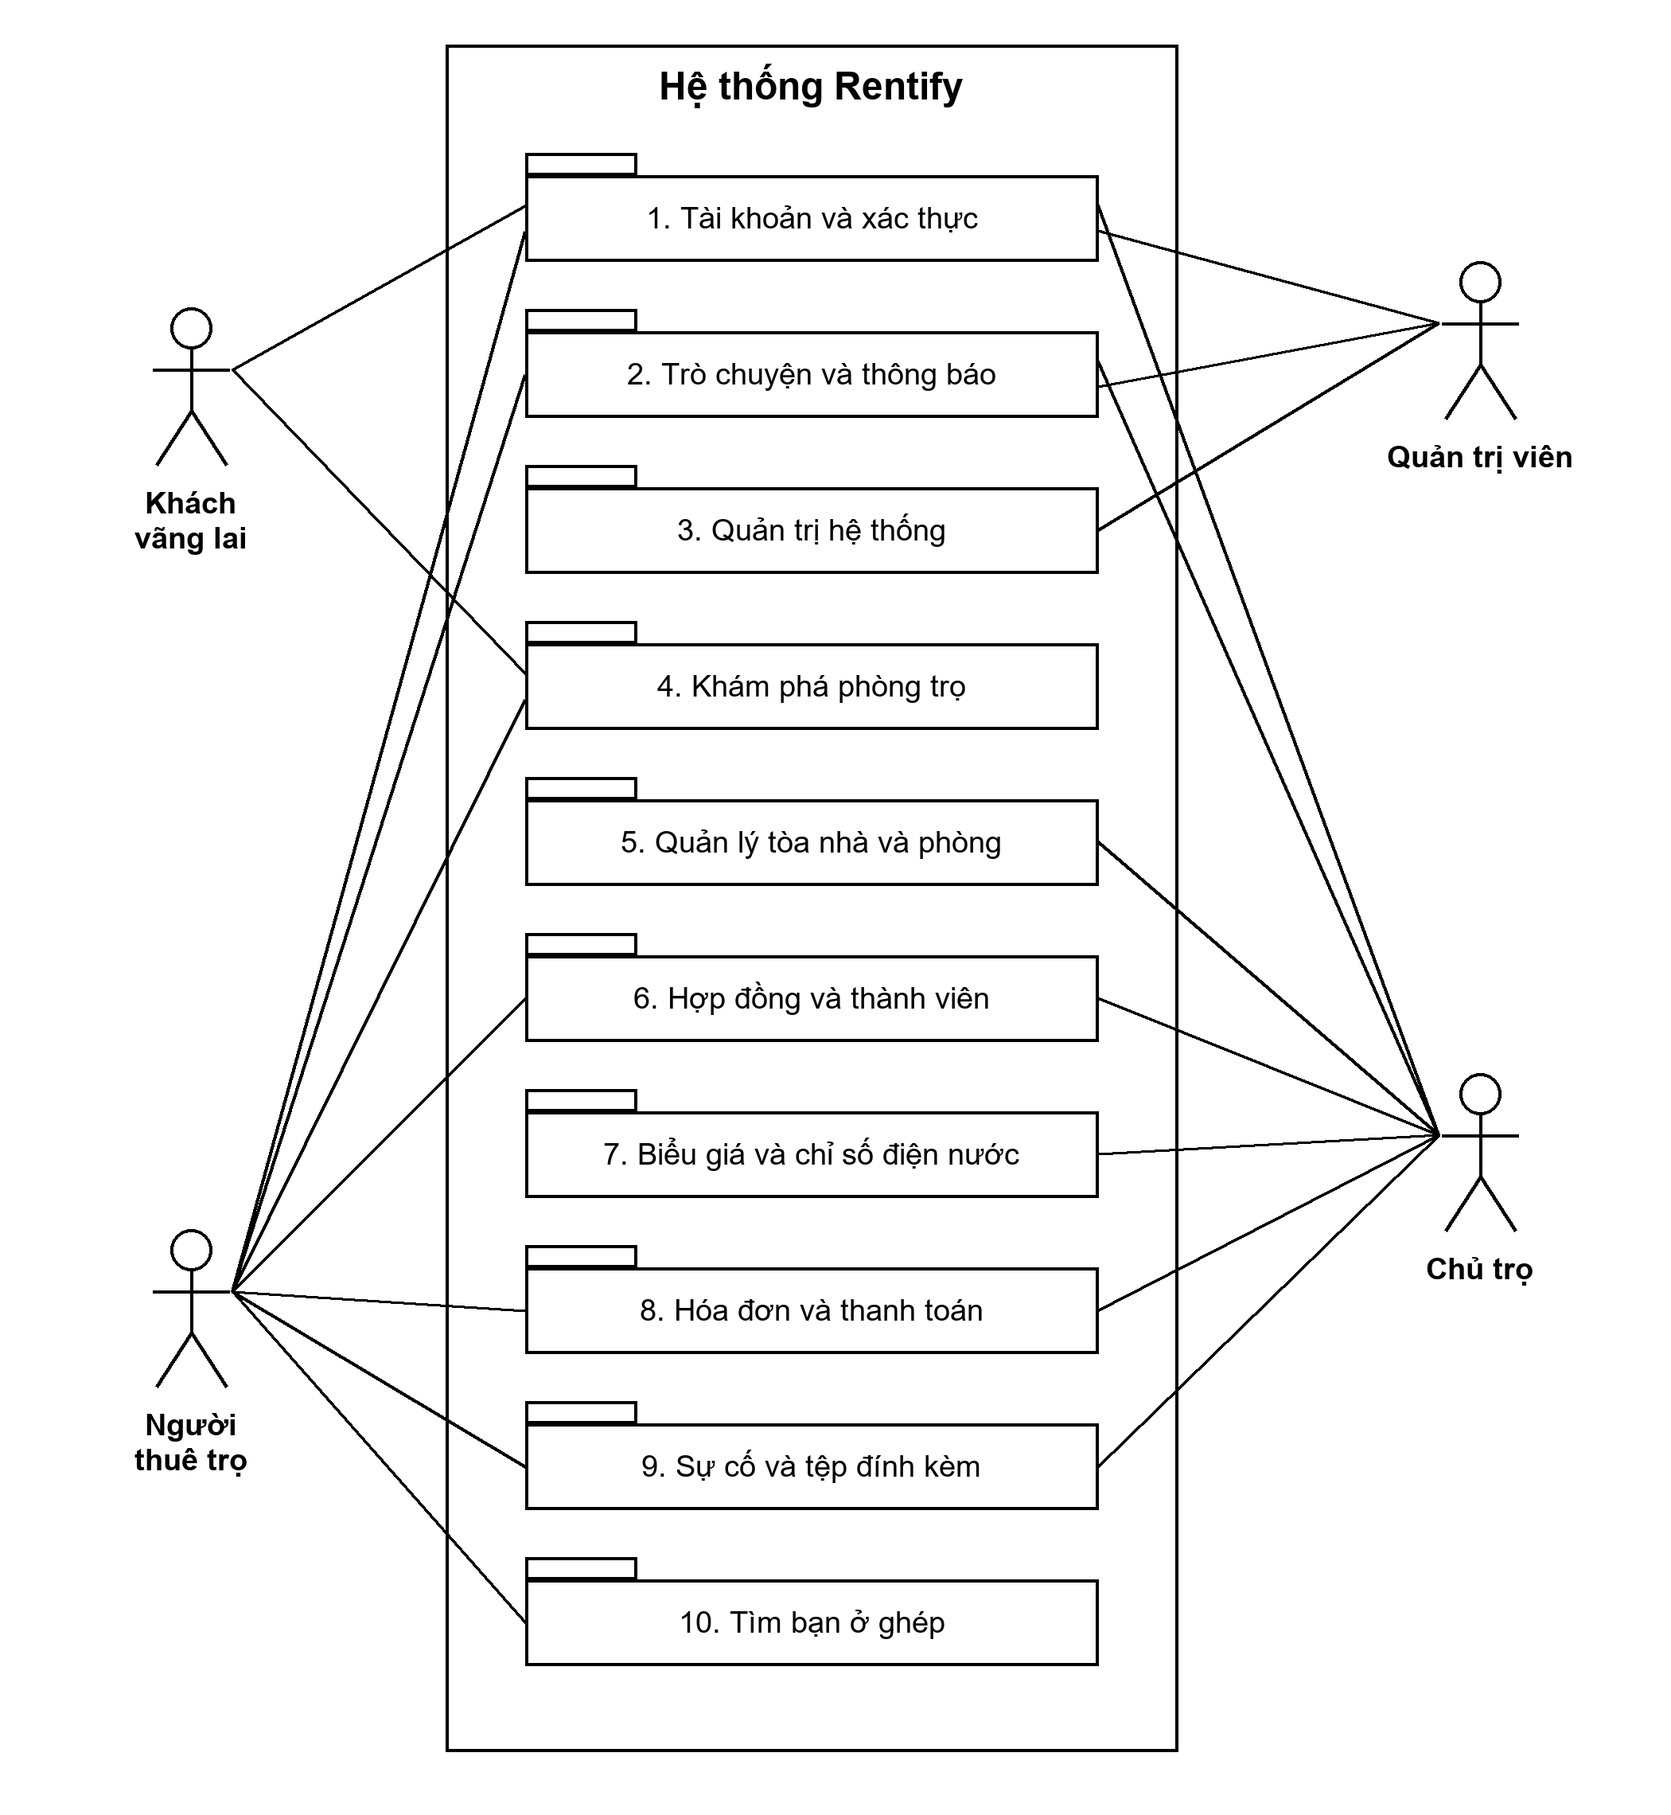
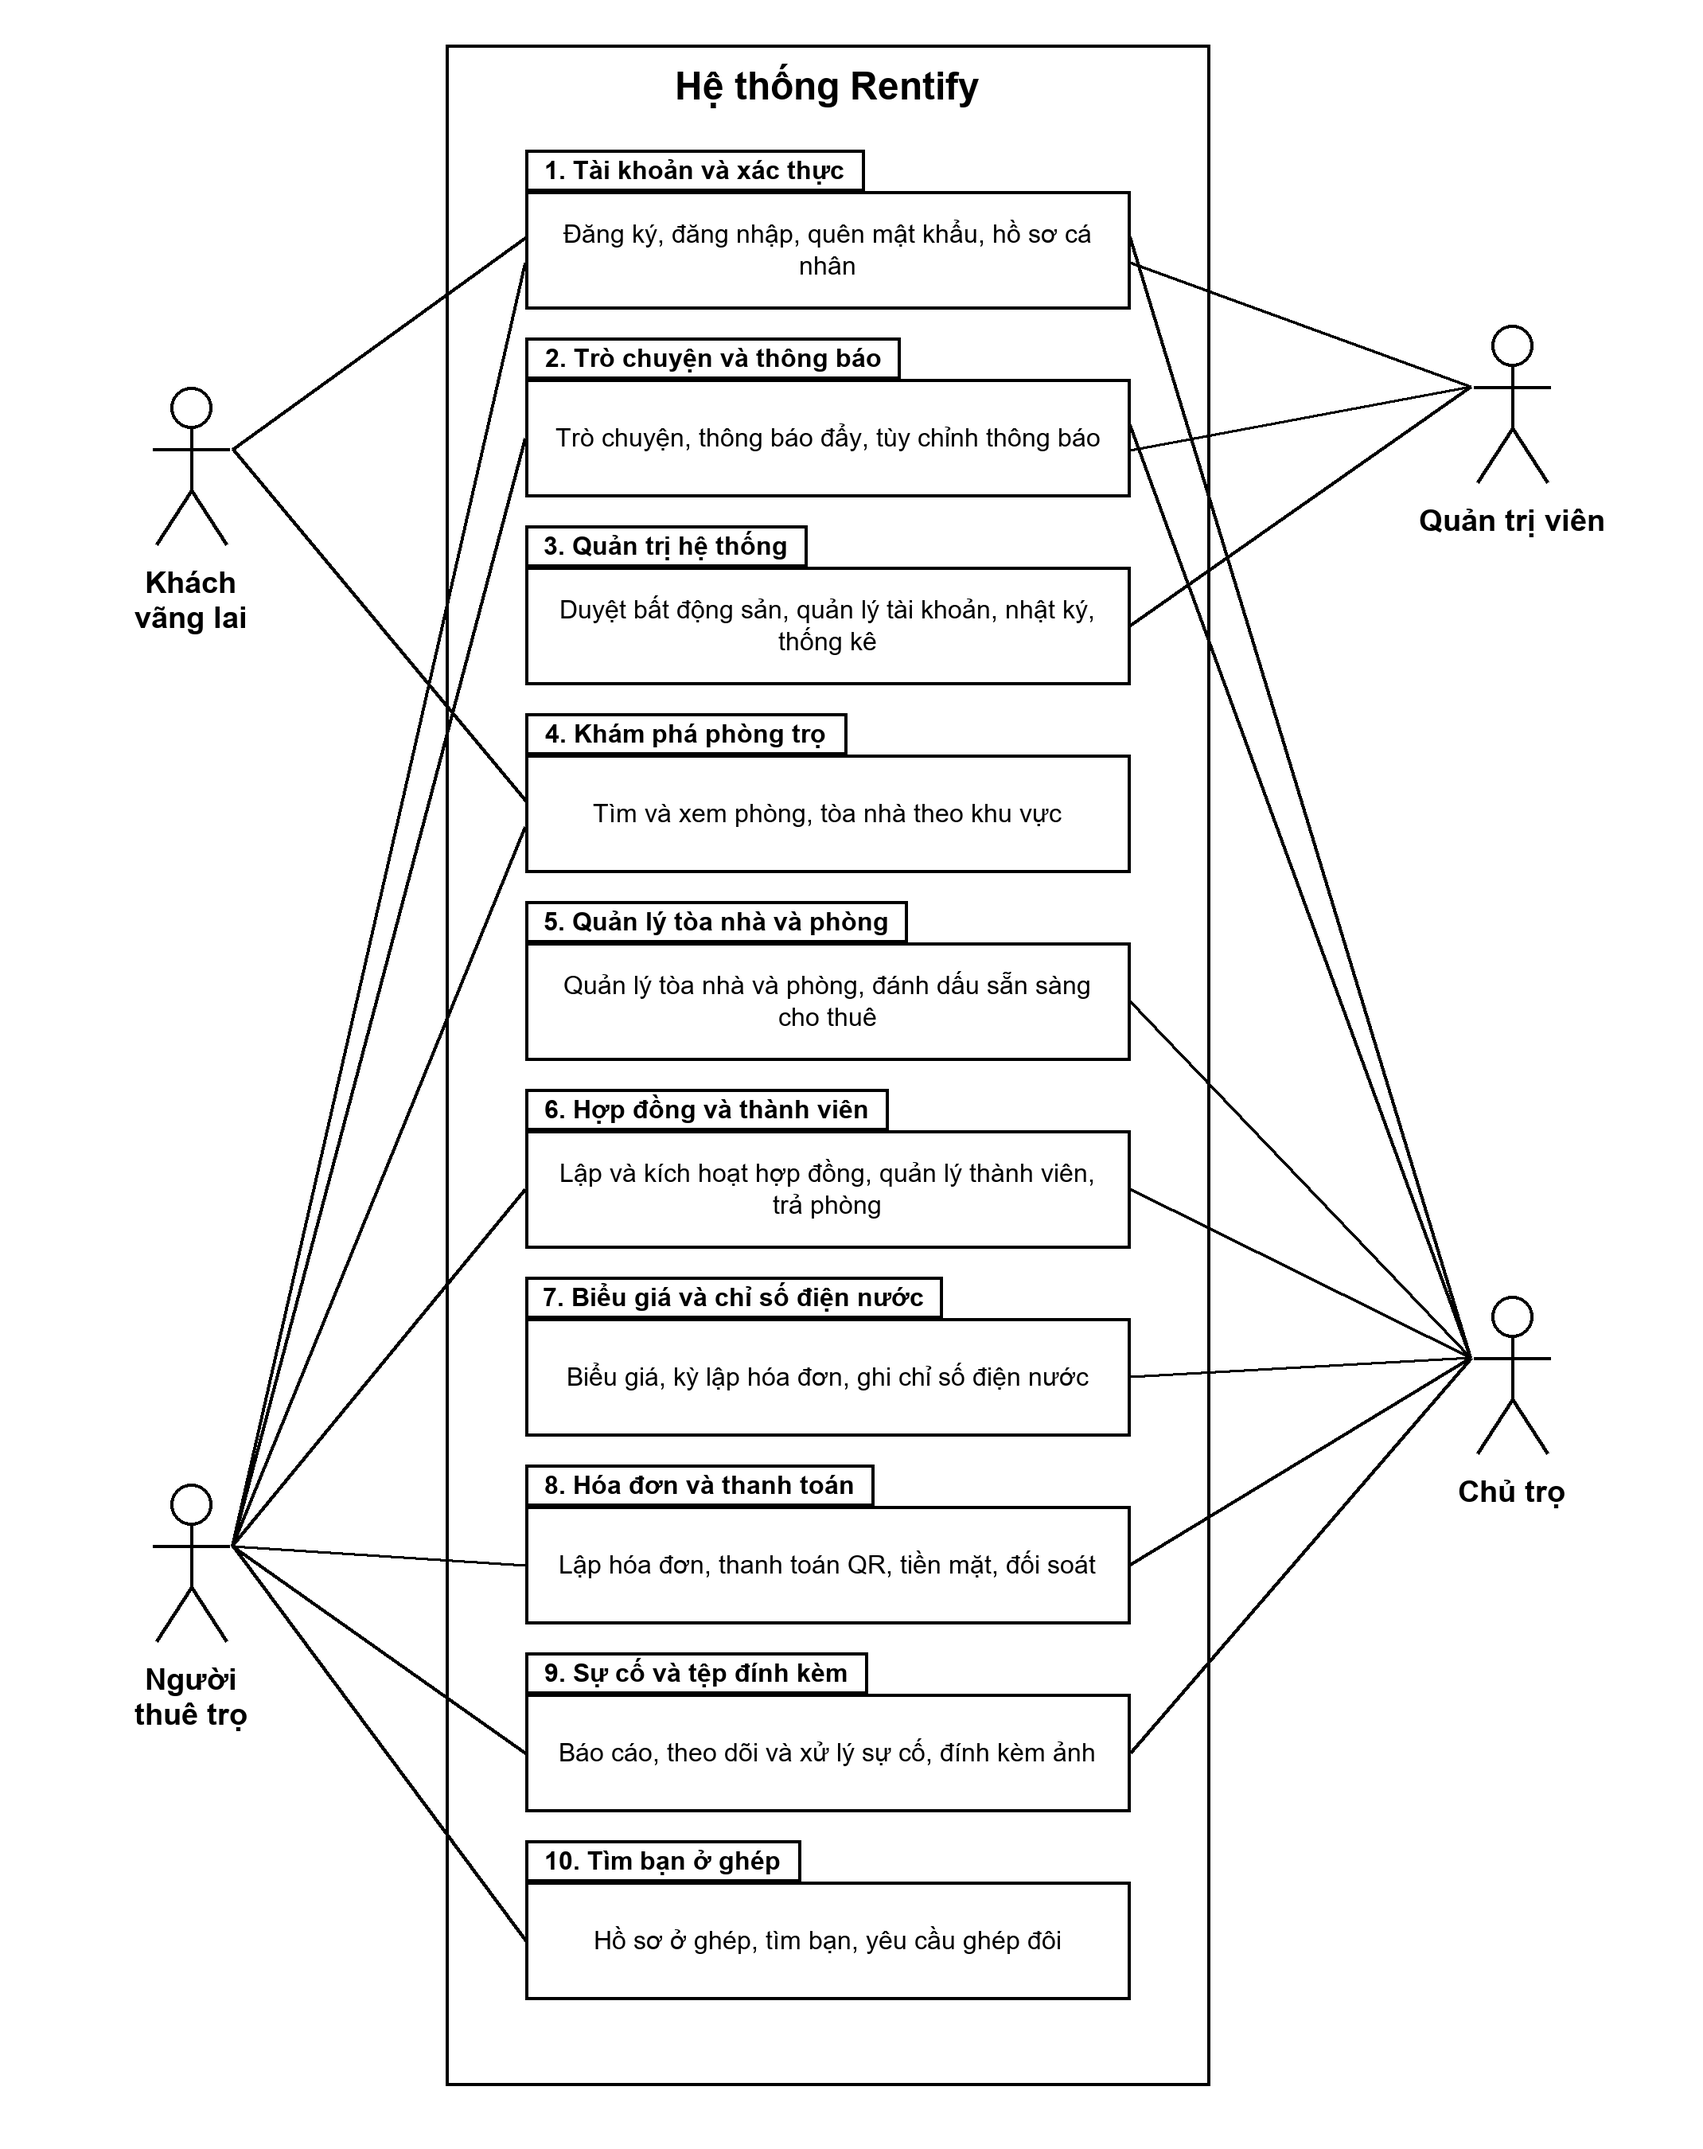
docs(report): name package tabs in P8-10d general use case diagram

diff --git a/Report/diagrams/generate_use_case_diagrams.py b/Report/diagrams/generate_use_case_diagrams.py
@@ -288,6 +288,18 @@ def general_diagram(filename):
         "9. Sự cố và tệp đính kèm",
         "10. Tìm bạn ở ghép",
     ]
+    summary = [
+        "Đăng ký, đăng nhập, quên mật khẩu, hồ sơ cá nhân",
+        "Trò chuyện, thông báo đẩy, tùy chỉnh thông báo",
+        "Duyệt bất động sản, quản lý tài khoản, nhật ký, thống kê",
+        "Tìm và xem phòng, tòa nhà theo khu vực",
+        "Quản lý tòa nhà và phòng, đánh dấu sẵn sàng cho thuê",
+        "Lập và kích hoạt hợp đồng, quản lý thành viên, trả phòng",
+        "Biểu giá, kỳ lập hóa đơn, ghi chỉ số điện nước",
+        "Lập hóa đơn, thanh toán QR, tiền mặt, đối soát",
+        "Báo cáo, theo dõi và xử lý sự cố, đính kèm ảnh",
+        "Hồ sơ ở ghép, tìm bạn, yêu cầu ghép đôi",
+    ]
     links = {
         "guest": [0, 3],
         "tenant": [0, 1, 3, 5, 7, 8, 9],
@@ -295,10 +307,10 @@ def general_diagram(filename):
         "admin": [0, 1, 2],
     }
     cv = Canvas()
-    PW, PH, PSTEP = 360, 54, 98
+    PW, PH, PSTEP = 380, 74, 118
     lx = 330
     rx = lx + PW + 330
-    top = 110
+    top = 120
     cys = [top + i * PSTEP + PH / 2 for i in range(len(pk))]
     sys_l, sys_r = lx - 50, rx + PW - 330 + 50
     sys_r = lx + PW + 50
@@ -308,9 +320,10 @@ def general_diagram(filename):
     for i, name in enumerate(pk):
         y = top + i * PSTEP
         cv.rect(lx, y, PW, PH)
-        tw = 70
-        cv.rect(lx, y - 14, tw, 14)
-        cv.text(lx + PW / 2, y + PH / 2, name, FS, bold=False)
+        tw = text_w(name, FS_SMALL, True) + 28
+        cv.rect(lx, y - TAB_H, tw, TAB_H)
+        cv.text(lx + tw / 2, y - TAB_H / 2, name, FS_SMALL, bold=True)
+        cv.text(lx + PW / 2, y + PH / 2, "\n".join(wrap(summary[i], PW - 40, FS_SMALL)), FS_SMALL)
     mid = (28 + sys_bottom) / 2
     actors = {
         "guest": ("Khách\nvãng lai", 120, (cys[0] + cys[3]) / 2 - 40, "L"),
